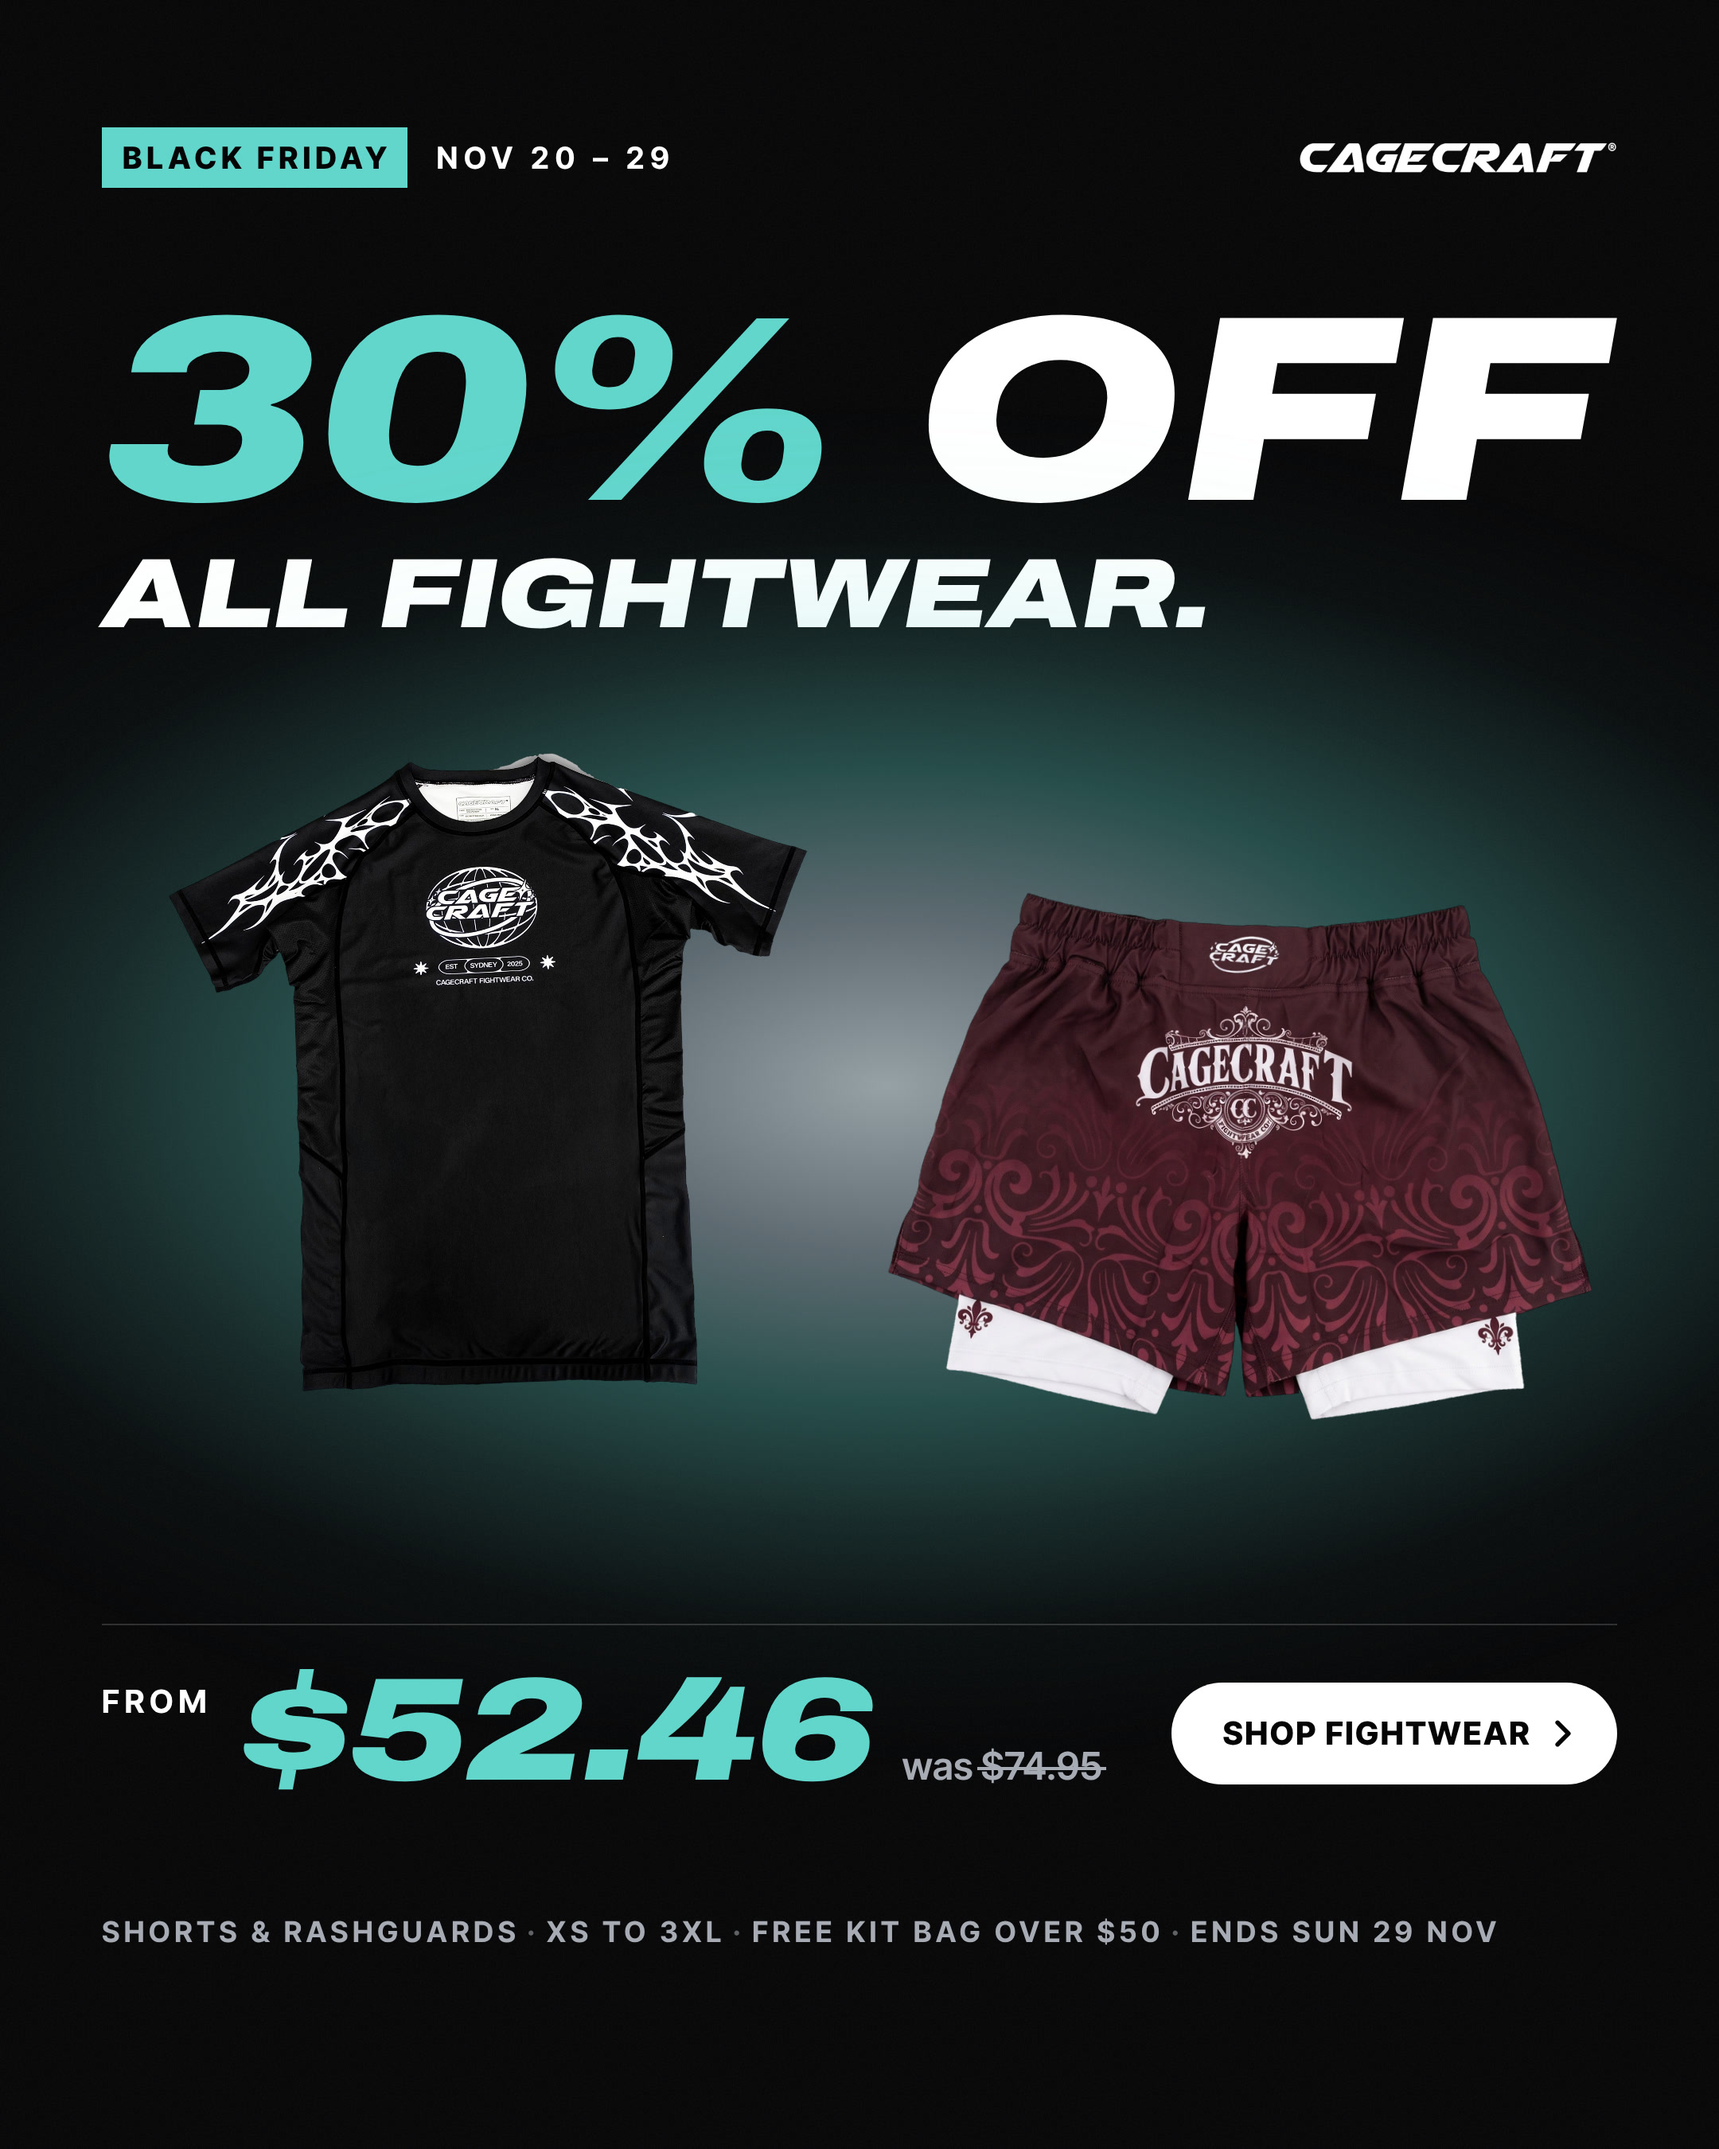
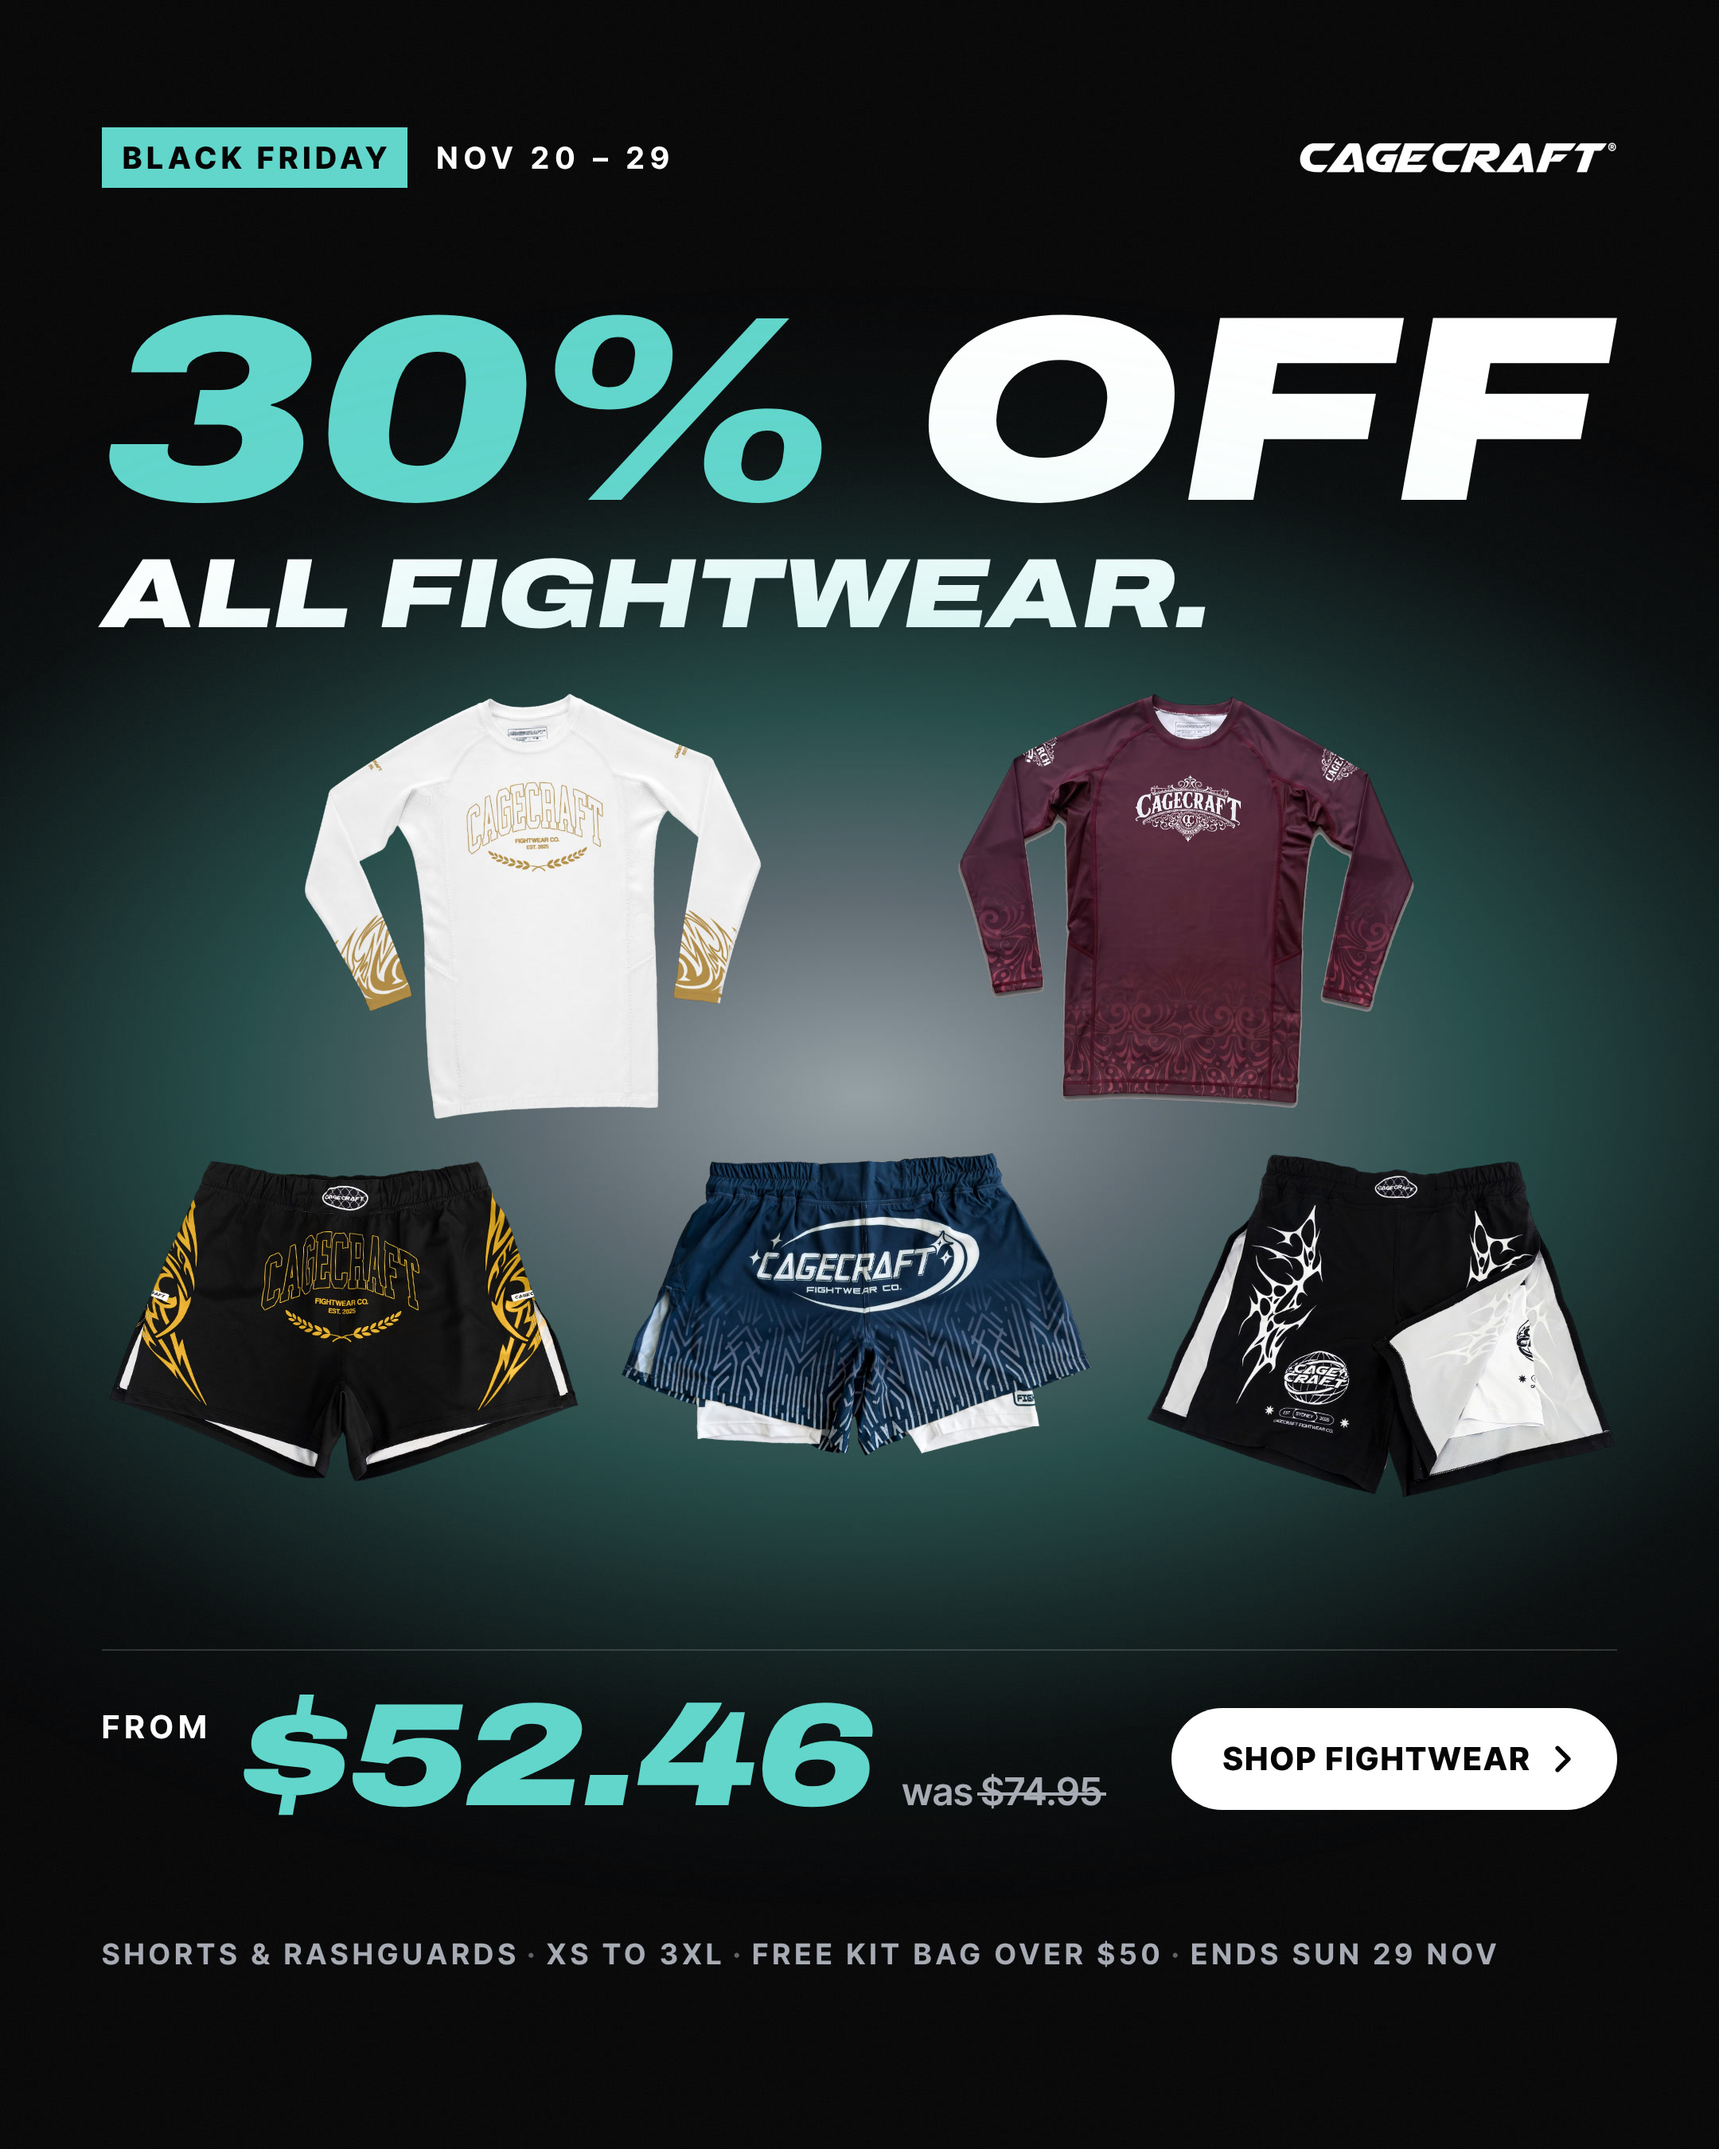
All Fightwear ad: one owner-selected piece from each kit
Claude-Session: https://claude.ai/code/session_01DwmoEmy8CSvczLcw7q8N8i

diff --git a/cagecraft-ads/ads/bf-12-fightwear-price-drop/ad.html b/cagecraft-ads/ads/bf-12-fightwear-price-drop/ad.html
@@ -93,10 +93,10 @@
   // Each entry: [file, centre x, top, width, rotation, height/width]. One shared light sits under the whole group.
   const tall = new URLSearchParams(location.search).get("v") === "916";
   if (tall) document.body.classList.add("v916");
-  const L = tall ? { labelsY: 278, headY: 352, priceY: 1200, factsY: 1346 } : { labelsY: 80, headY: 184, priceY: 1020, factsY: 1206 };
+  const L = tall ? { labelsY: 278, headY: 352, priceY: 1250, factsY: 1396 } : { labelsY: 80, headY: 184, priceY: 1036, factsY: 1220 };
   const R = document.documentElement.style;
   for (const [k, v] of Object.entries({ "--labels-y": L.labelsY, "--head-y": L.headY, "--h1": 166, "--h2": 62, "--price-y": L.priceY, "--facts-y": L.factsY })) R.setProperty(k, v + "px");
-  const items = tall ? [["rashguard-global/front.png", 318, 640, 430, 0, 0.9962], ["shorts-monarch/front.png", 776, 740, 460, 2, 0.7423]] : [["rashguard-global/front.png", 318, 470, 410, -2, 0.9962], ["shorts-monarch/front.png", 776, 560, 450, 2, 0.7423]];
+  const items = tall ? [["rashguard-champion-white-gold/front.png", 330.0, 596, 320, -2, 0.9221], ["rashguard-monarch/front.png", 750.0, 596, 320, 2, 0.8993], ["shorts-champion-gold/front.png", 206.0, 926, 312, 2, 0.6958], ["shorts-legacy/flat-front.png", 540.0, 926, 312, -2, 0.6443], ["shorts-global/front.png", 874.0, 926, 312, 2, 0.729]] : [["rashguard-champion-white-gold/front.png", 340.0, 434, 292, -2, 0.9221], ["rashguard-monarch/front.png", 740.0, 434, 292, 2, 0.8993], ["shorts-champion-gold/front.png", 214.0, 724, 300, 2, 0.6958], ["shorts-legacy/flat-front.png", 540.0, 724, 300, -2, 0.6443], ["shorts-global/front.png", 866.0, 724, 300, 2, 0.729]];
   const host = document.getElementById("lineup");
   const box = (cls, s) => { const d = document.createElement("div"); d.className = cls; Object.assign(d.style, s); host.appendChild(d); return d; };
   const x0 = Math.min(...items.map(i => i[1] - i[3] / 2)), x1 = Math.max(...items.map(i => i[1] + i[3] / 2));
